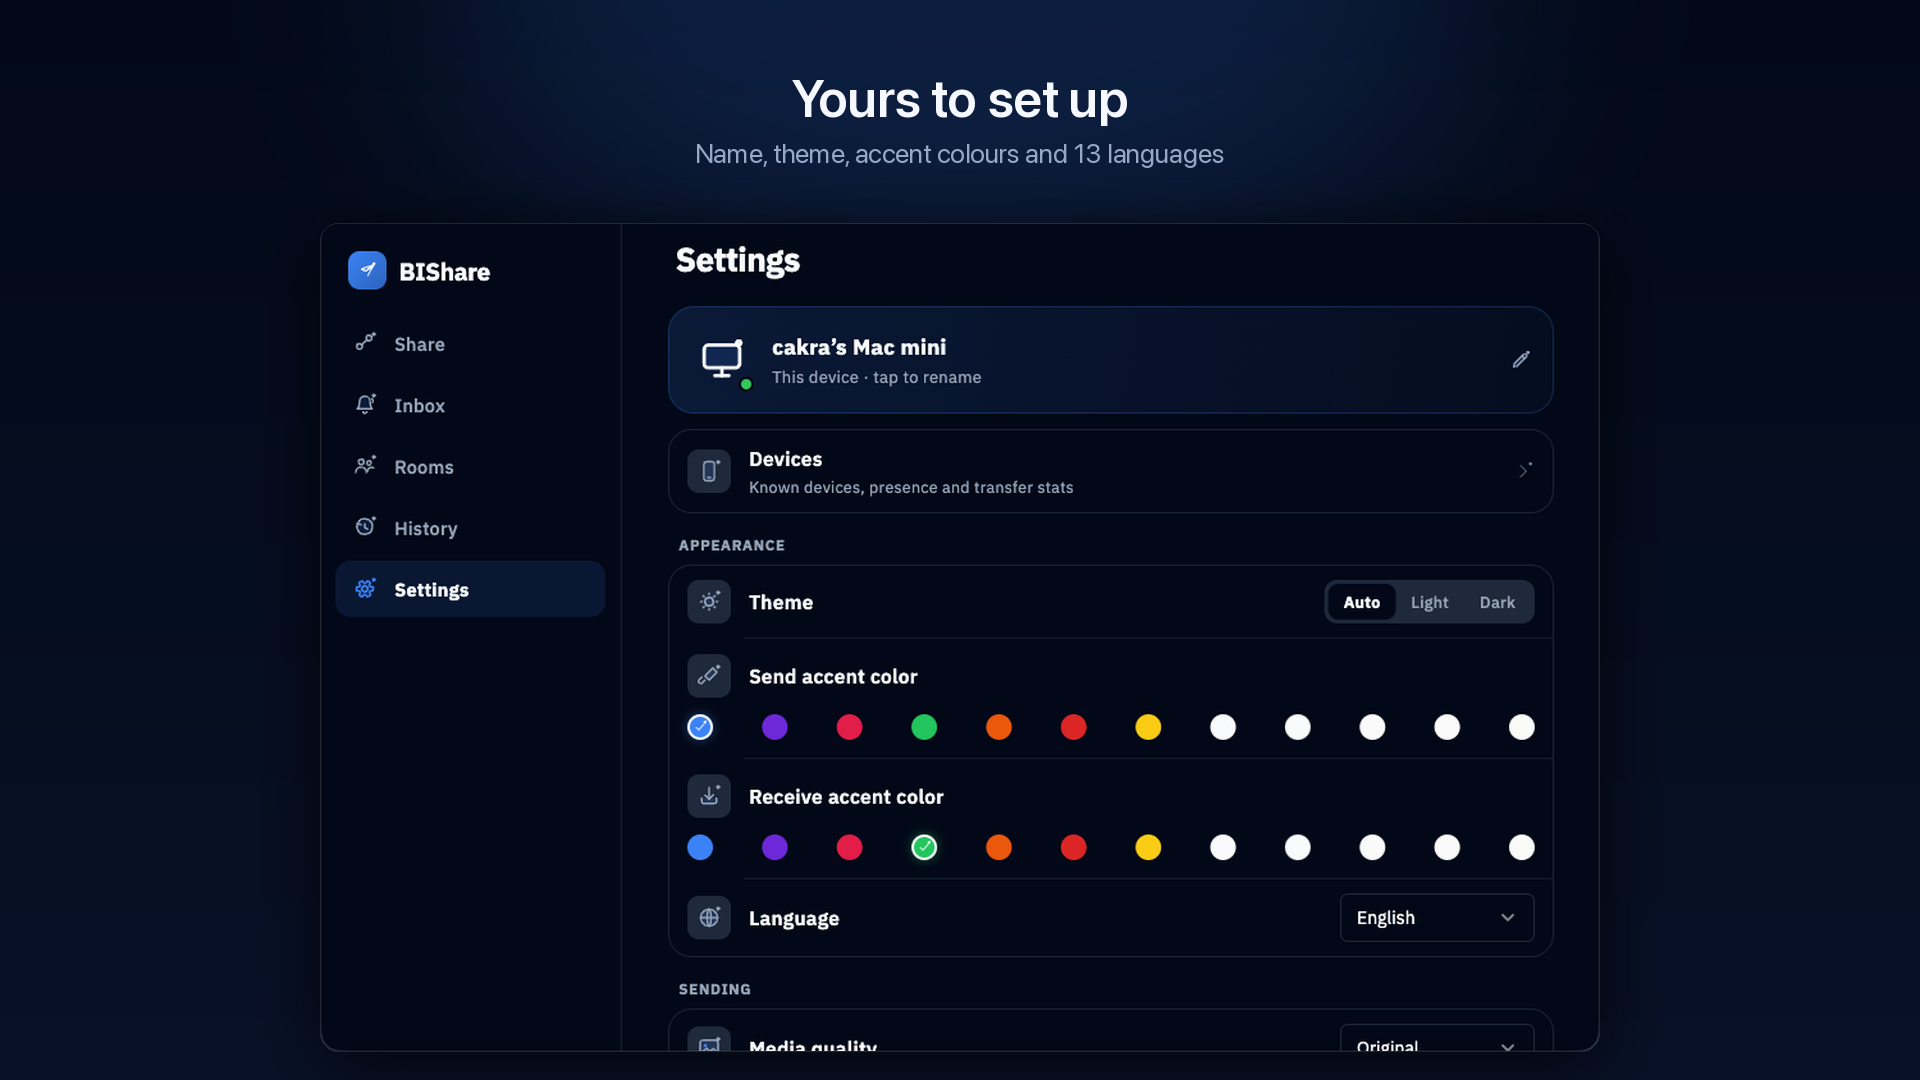
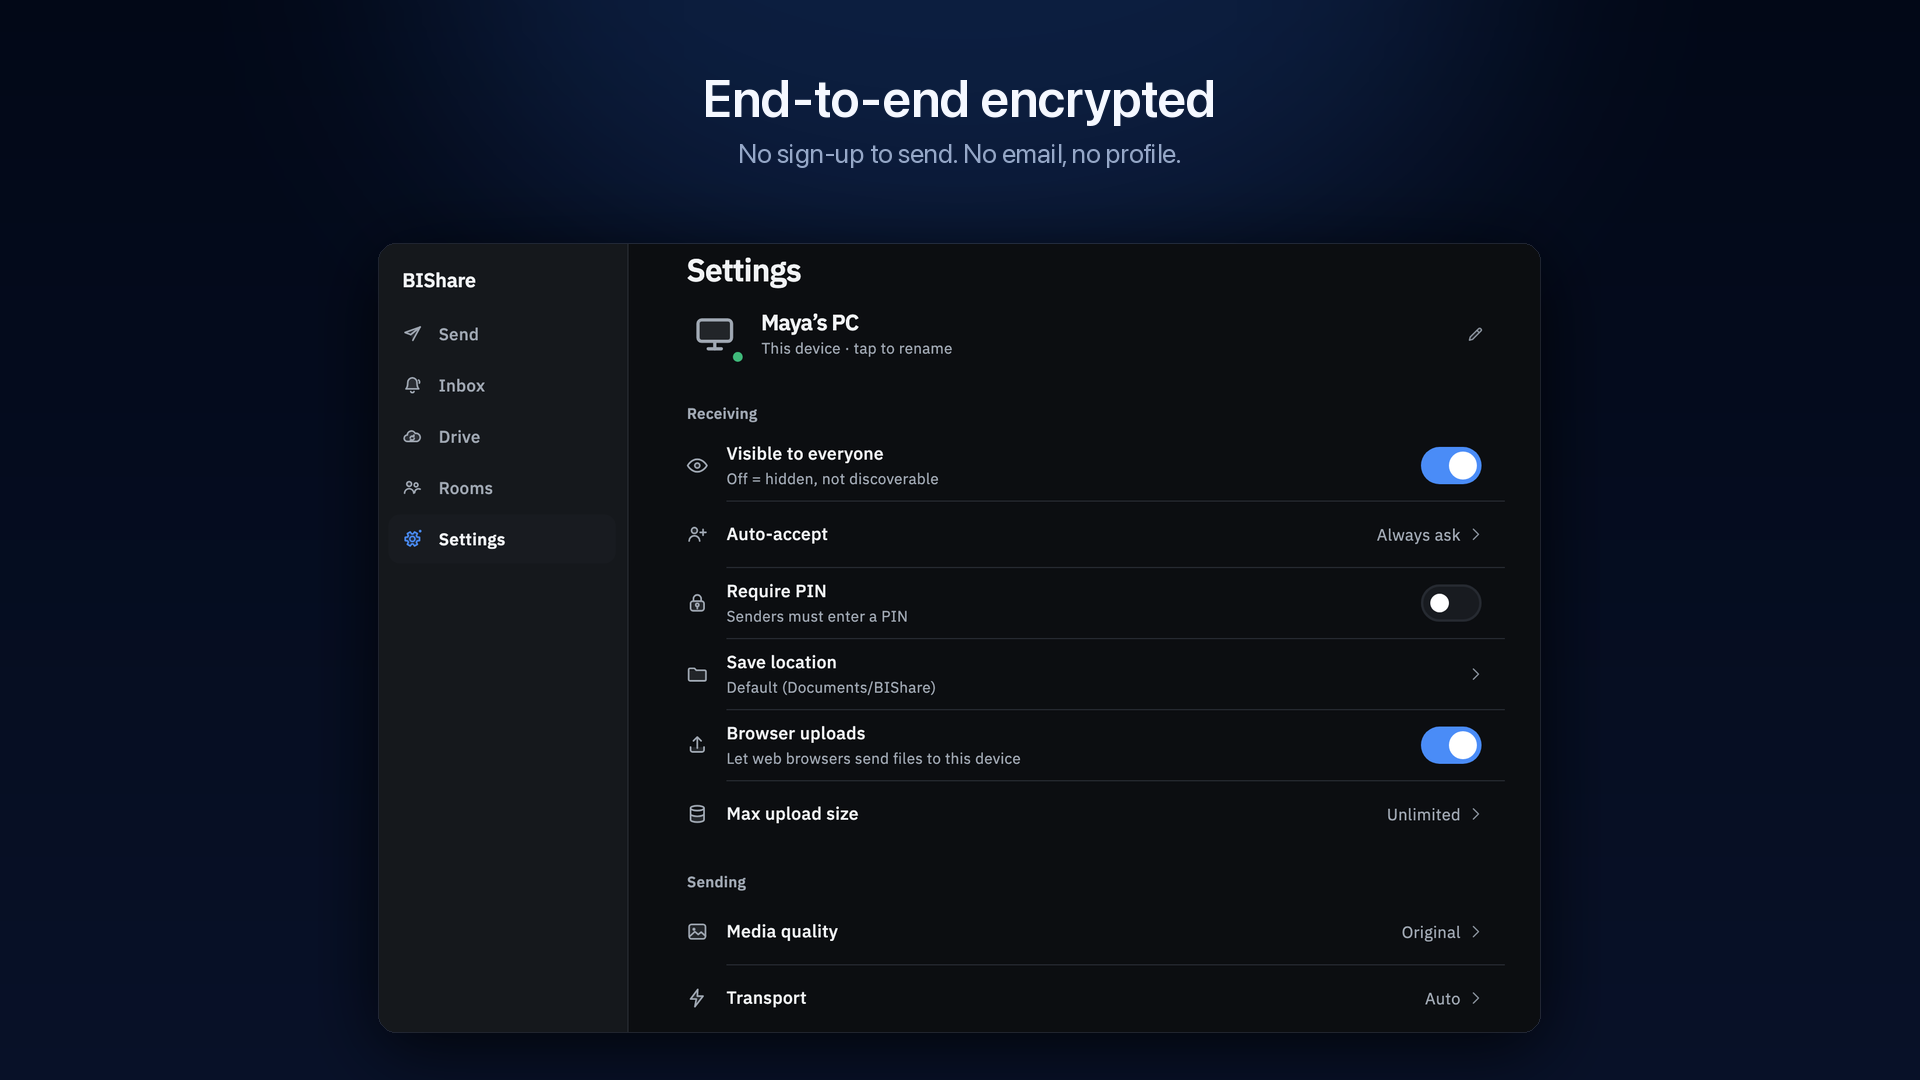
Microsoft Store screenshots from the redesign (Send, Inbox, Secure Link, Drive, Settings); the Apple-only Nearby row and the phone's chosen photos by the target platform

diff --git a/test/preview/store_screenshots_test.dart b/test/preview/store_screenshots_test.dart
@@ -1162,15 +1162,21 @@ Future<void> _run(
                 BlocProvider<SendCubit>.value(value: send),
                 BlocProvider<TrayCubit>.value(value: tray),
                 BlocProvider<SendSelectionCubit>(
-                  // Three photos chosen, so the Send bar shows.
-                  create: (_) => SendSelectionCubit(tray)
-                    ..setAssets(
-                      (SendMediaLibrary.instance as _FakeLibrary).assets
-                          .take(3)
-                          .toList(),
-                      SendKind.photo,
-                      true,
-                    ),
+                  // Three photos chosen on a phone, so the Send bar shows;
+                  // computers have no library to choose from.
+                  create: (_) {
+                    final c = SendSelectionCubit(tray);
+                    if (SendMediaLibrary.available) {
+                      c.setAssets(
+                        (SendMediaLibrary.instance as _FakeLibrary).assets
+                            .take(3)
+                            .toList(),
+                        SendKind.photo,
+                        true,
+                      );
+                    }
+                    return c;
+                  },
                 ),
                 BlocProvider<FavoritesCubit>.value(value: favorites),
                 BlocProvider<RoomCubit>.value(value: room),

diff --git a/lib/features/home/widgets/send_sheet.dart b/lib/features/home/widgets/send_sheet.dart
@@ -546,7 +546,12 @@ class SendWays extends StatelessWidget {
 
   @override
   Widget build(BuildContext context) {
-    final apple = !kIsWeb && (Platform.isIOS || Platform.isMacOS);
+    // By the target platform (the same in the app), so the store
+    // screenshots of other platforms leave it out too.
+    final apple =
+        !kIsWeb &&
+        (defaultTargetPlatform == TargetPlatform.iOS ||
+            defaultTargetPlatform == TargetPlatform.macOS);
     final rows = <(String, String, String, VoidCallback)>[
       (
         AppIcons.linkCopy,

diff --git a/store/screenshots/compose.py b/store/screenshots/compose.py
@@ -78,22 +78,20 @@ def build(src, head, sub, out, scale=1.28, trim=False):
     im.save(path, "PNG")
     print(f"  {out}  {im.size[0]}x{im.size[1]}  {os.path.getsize(path)//1024} KB")
 
-build("J-fix-verified.png", "Send anything, to anyone",
-      "An encrypted link or QR — up to 100 GB, no account, expires in 24 hours",
-      "01-secure-link.png", trim=True)
-build("K-sheet-mid.png", "Encrypted before it leaves your PC",
-      "The key travels inside the link. The relay only ever stores what it cannot read.",
-      "02-encryption.png")
-build("B-rooms.png", "Rooms: one code, several devices",
-      "Over your own Wi-Fi, or across the country",
-      "03-rooms.png", trim=True)
-build("I-devices.png", "Windows, iPhone, Android, Mac and Linux",
-      "One app on every device you own — and none needed on theirs",
-      "04-devices.png", trim=True)
-build("C-settings.png", "Yours to set up",
-      "Name, theme, accent colours and 13 languages",
-      "05-settings.png")
-# test/preview/store_screenshots_test.dart, preset "windows", en/6_drive.png
-build("L-drive.png", "BIShare Drive: only you hold the key",
-      "End-to-end encrypted storage for your files. 5 GB free, more with a plan",
-      "06-drive.png", trim=True)
+# Raw captures: test/preview/store_screenshots_test.dart, preset
+# "windows_store", BISHARE_SHOTS_ONLY=1_share,2_inbox,3_link,4_drive,5_settings
+build("W1_share.png", "Send anything. To any device.",
+      "Drop files on BIShare and pick a phone, tablet or computer on your Wi-Fi",
+      "01-send.png", trim=True)
+build("W2_inbox.png", "Every photo in original quality",
+      "No compression and no size limit on your own network",
+      "02-inbox.png", trim=True)
+build("W3_link.png", "Send to anyone with a link",
+      "An encrypted link up to 100 GB, opened in any browser. No account.",
+      "03-secure-link.png", trim=True)
+build("W4_drive.png", "BIShare Drive: only you hold the key",
+      "End-to-end encrypted storage for your files and photos",
+      "04-drive.png", trim=True)
+build("W5_settings.png", "End-to-end encrypted",
+      "No sign-up to send. No email, no profile.",
+      "05-settings.png", trim=True)

diff --git a/store/screenshots/README.md b/store/screenshots/README.md
@@ -7,14 +7,18 @@ set from `raw/`.
 
 | File | Caption |
 |---|---|
-| `01-secure-link.png` | Send anything, to anyone |
-| `02-encryption.png` | Encrypted before it leaves your PC |
-| `03-rooms.png` | Rooms: one code, several devices |
-| `04-devices.png` | Windows, iPhone, Android, Mac and Linux |
-| `05-settings.png` | Yours to set up |
-| `06-drive.png` | BIShare Drive: only you hold the key (raw `L-drive.png` from the store screenshot test, preset `windows_store`) |
+| `01-send.png` | Send anything. To any device. |
+| `02-inbox.png` | Every photo in original quality |
+| `03-secure-link.png` | Send to anyone with a link |
+| `04-drive.png` | BIShare Drive: only you hold the key |
+| `05-settings.png` | End-to-end encrypted |
 | `store-logo-2160.png` | Product logo, transparent background, from `logo.svg` |
 | `promo-16x9-2400x1350.png` | Promotional image |
+
+The raw `W*.png` come from `test/preview/store_screenshots_test.dart`, preset
+`windows_store`, with
+`BISHARE_SHOTS_ONLY=1_share,2_inbox,3_link,4_drive,5_settings` (2.8.0
+redesign). Sample photos: `store/screens/photos` (Unsplash License).
 
 ## Why the app is composed onto a background
 
